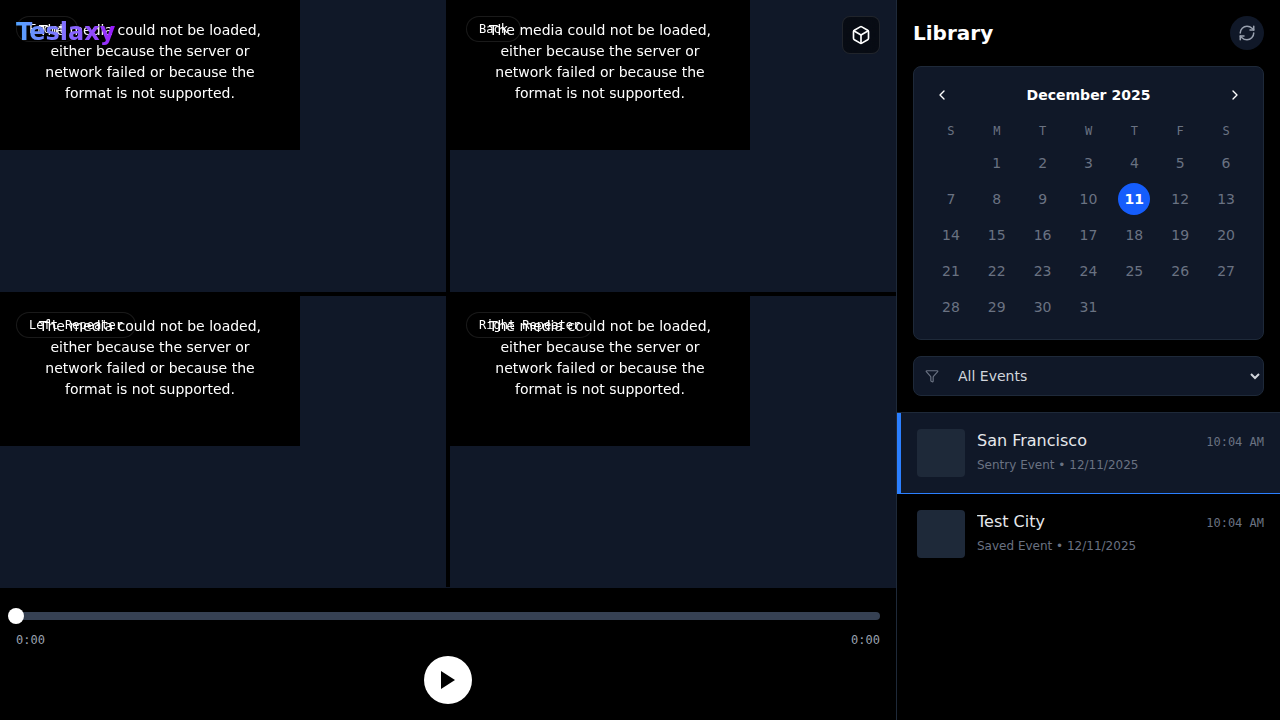
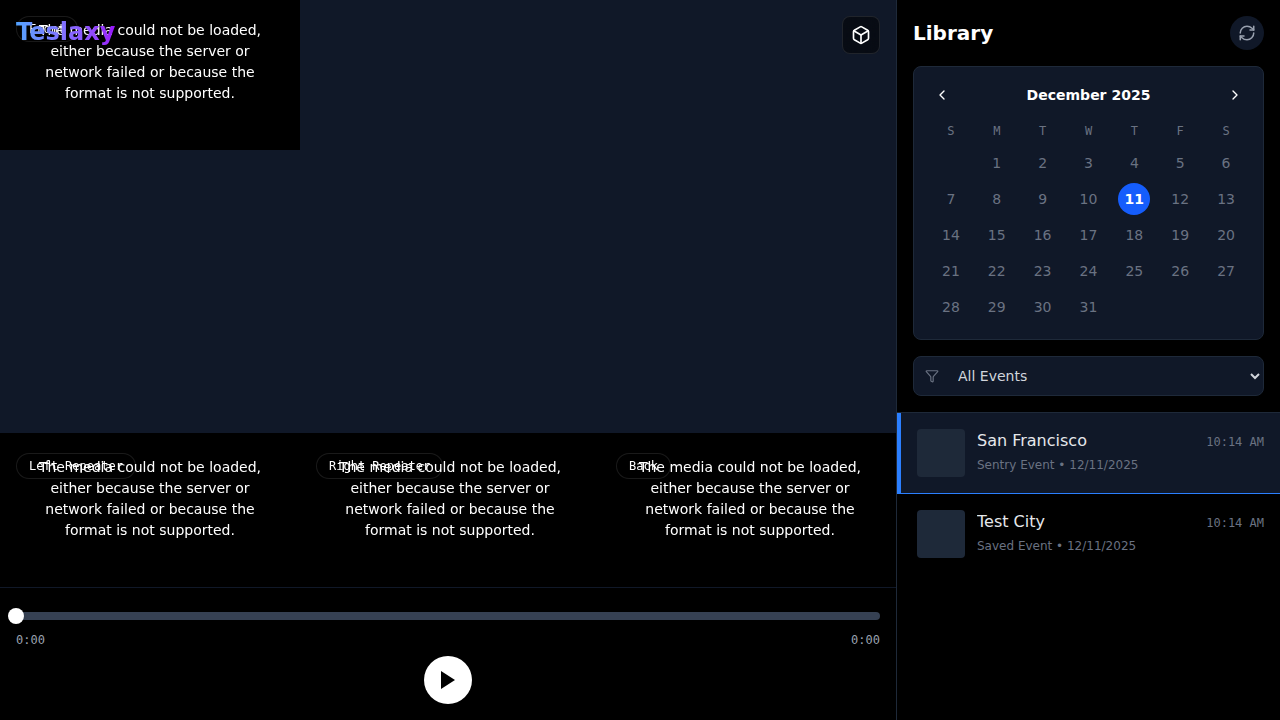
Update Camera Grid Layout and Fix Player Robustness

Changed region(s): [[0.0, 0.3972, 0.7188, 0.825], [0.3438, 0.0, 0.5938, 0.2139]]

diff --git a/frontend/src/components/Player.tsx b/frontend/src/components/Player.tsx
@@ -144,9 +144,9 @@ const Player: React.FC<{ clip: Clip | null }> = ({ clip }) => {
              </div>
           </div>
       ) : (
-          <div className="flex-1 overflow-hidden grid grid-cols-2 grid-rows-2 gap-1 bg-black">
-              {/* Front Camera (Top Left) */}
-              <div className="relative bg-gray-900 group/cam">
+          <div className="flex-1 overflow-hidden grid grid-cols-3 grid-rows-[3fr_1fr] gap-1 bg-black">
+              {/* Front Camera (Top, Spans 3) */}
+              <div className="relative bg-gray-900 group/cam col-span-3">
                   {frontVideo ? (
                       <VideoPlayer
                           src={getUrl(frontVideo.file_path)}
@@ -166,21 +166,7 @@ const Player: React.FC<{ clip: Clip | null }> = ({ clip }) => {
                    )}
               </div>
 
-               {/* Back Camera (Top Right) */}
-               <div className="relative bg-gray-900 group/cam">
-                   {backVideo ? (
-                      <VideoPlayer
-                          src={getUrl(backVideo.file_path)}
-                          className="w-full h-full object-contain"
-                          onReady={(p) => handlePlayerReady('Back', p)}
-                      />
-                  ) : <div className="flex items-center justify-center h-full text-gray-600">No Back Camera</div>}
-                   <div className="absolute top-4 left-4 bg-black/50 px-3 py-1 rounded-full text-xs font-mono backdrop-blur border border-white/10 pointer-events-none">
-                      Back
-                  </div>
-               </div>
-
-               {/* Left Repeater (Bottom Left) */}
+               {/* Left Repeater */}
                <div className="relative bg-gray-900 group/cam">
                    {leftVideo ? (
                       <VideoPlayer
@@ -194,7 +180,7 @@ const Player: React.FC<{ clip: Clip | null }> = ({ clip }) => {
                   </div>
                </div>
 
-               {/* Right Repeater (Bottom Right) */}
+               {/* Right Repeater */}
                <div className="relative bg-gray-900 group/cam">
                    {rightVideo ? (
                       <VideoPlayer
@@ -205,6 +191,20 @@ const Player: React.FC<{ clip: Clip | null }> = ({ clip }) => {
                   ) : <div className="flex items-center justify-center h-full text-gray-600">No Right Repeater</div>}
                    <div className="absolute top-4 left-4 bg-black/50 px-3 py-1 rounded-full text-xs font-mono backdrop-blur border border-white/10 pointer-events-none">
                       Right Repeater
+                  </div>
+               </div>
+
+               {/* Back Camera */}
+               <div className="relative bg-gray-900 group/cam">
+                   {backVideo ? (
+                      <VideoPlayer
+                          src={getUrl(backVideo.file_path)}
+                          className="w-full h-full object-contain"
+                          onReady={(p) => handlePlayerReady('Back', p)}
+                      />
+                  ) : <div className="flex items-center justify-center h-full text-gray-600">No Back Camera</div>}
+                   <div className="absolute top-4 left-4 bg-black/50 px-3 py-1 rounded-full text-xs font-mono backdrop-blur border border-white/10 pointer-events-none">
+                      Back
                   </div>
                </div>
           </div>
